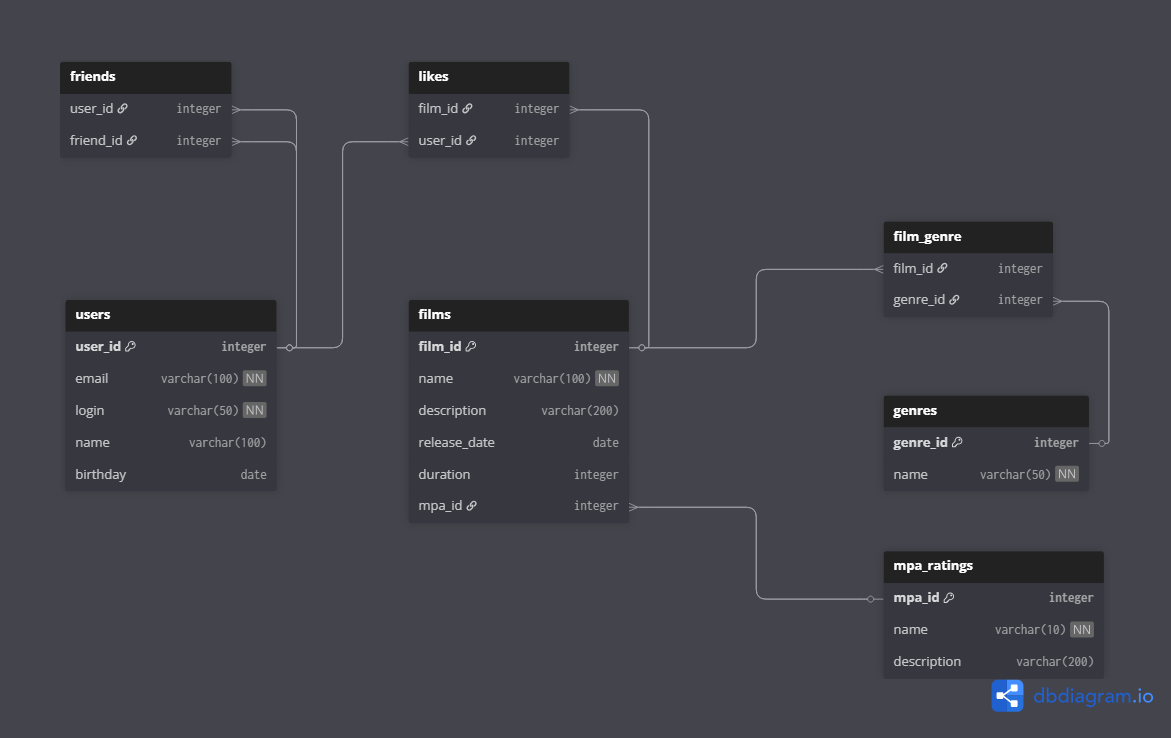
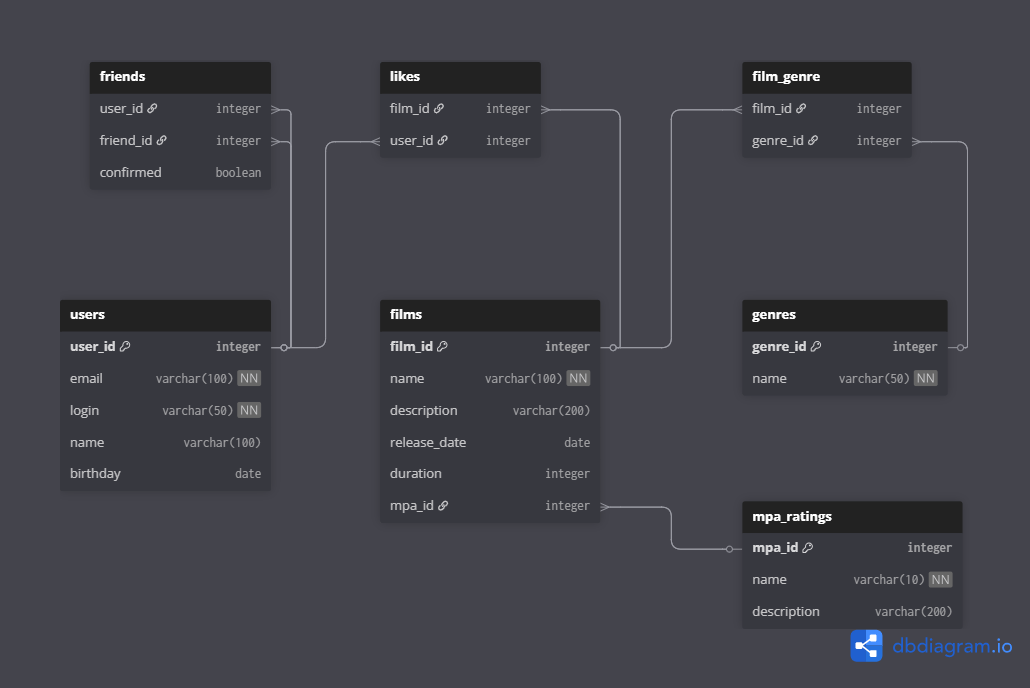
feat: update UserService and FilmService

diff --git a/src/main/java/ru/yandex/practicum/filmorate/service/UserService.java b/src/main/java/ru/yandex/practicum/filmorate/service/UserService.java
@@ -4,110 +4,53 @@ import lombok.RequiredArgsConstructor;
 import lombok.extern.slf4j.Slf4j;
 import org.springframework.stereotype.Service;
 import ru.yandex.practicum.filmorate.exception.NotFoundException;
+import ru.yandex.practicum.filmorate.exception.ValidationException;
 import ru.yandex.practicum.filmorate.model.User;
-import ru.yandex.practicum.filmorate.storage.UserStorage;
+import ru.yandex.practicum.filmorate.storage.user.UserRepository;
 
 import java.util.Collection;
-import java.util.Map;
-import java.util.Objects;
-import java.util.Set;
-import java.util.stream.Collectors;
 
 @Slf4j
 @Service
 @RequiredArgsConstructor
 public class UserService {
-    private final UserStorage userStorage;
-    private final FriendService friendService;
-
-    public void addFriend(Long userId, Long friendId) {
-        User user = userStorage.getUserById(userId).orElseThrow(() ->
-                new NotFoundException("Пользователь не найден."));
-        User friend = userStorage.getUserById(friendId).orElseThrow(() ->
-                new NotFoundException("Пользователь не найден."));
-        friendService.addFriend(user_id, friend_id);
-    }
-
-    public void removeFriend(Long userId, Long friendId) {
-        User user = userStorage.getUserById(userId);
-        if (user == null) {
-            throw new NotFoundException("Пользователь не найден.");
-        }
-        User friend = userStorage.getUserById(friendId);
-        if (friend == null) {
-            throw new NotFoundException("Пользователь не найден.");
-        }
-        user.getFriends().remove(friendId);
-        friend.getFriends().remove(userId);
-    }
-
-    public Collection<User> getFriends(Long userId) {
-        User user = userStorage.getUserById(userId);
-        if (user == null) {
-            throw new NotFoundException("Пользователь не найден.");
-        }
-        return user.getFriends()
-                .entrySet()
-                .stream()
-                .filter(e -> e.getValue() == FriendshipStatus.CONFIRMED)
-                .map(e -> userStorage.getUserById(e.getKey()))
-                .filter(Objects::nonNull)
-                .collect(Collectors.toList());
-    }
-
-    public Collection<User> getCommonFriends(Long userId1, Long userId2) {
-        User user1 = userStorage.getUserById(userId1);
-        if (user1 == null) {
-            throw new NotFoundException("Пользователь не найден.");
-        }
-        User user2 = userStorage.getUserById(userId2);
-        if (user2 == null) {
-            throw new NotFoundException("Пользователь не найден.");
-        }
-
-        Set<Long> commonIds = user1.getFriends()
-                .entrySet()
-                .stream()
-                .filter(e -> e.getValue() == FriendshipStatus.CONFIRMED)
-                .map(Map.Entry::getKey)
-                .filter(id -> user2.getFriends().containsKey(id) &&
-                user2.getFriends().get(id) == FriendshipStatus.CONFIRMED)
-                .collect(Collectors.toSet());
-
-        return commonIds.stream()
-                .map(userStorage::getUserById)
-                .filter(Objects::nonNull)
-                .collect(Collectors.toList());
-    }
-
-    public void confirmFriendship(Long userId, Long friendId) {
-        User user = userStorage.getUserById(userId);
-        if (user == null) {
-            throw new NotFoundException("Пользователь не найден.");
-        }
-        User friend = userStorage.getUserById(friendId);
-        if (friend == null) {
-            throw new NotFoundException("Пользователь не найден.");
-        }
-        if (user.getFriends().containsKey(friendId)) {
-            user.getFriends().put(friendId, FriendshipStatus.CONFIRMED);
-            friend.getFriends().put(userId, FriendshipStatus.CONFIRMED);
-        }
-    }
+    private final UserRepository userRepository;
 
     public Collection<User> findAllUsers() {
-        return userStorage.findAllUsers();
+        log.debug("Попытка получения списка всех пользователей.");
+        return userRepository.findAllUsers();
     }
 
-    public User getUserById(Long id) {
-        return userStorage.getUserById(id).orElseThrow(() -> new NotFoundException("Пользователь не найден."));
+    public User getUserById(Long userId) {
+        log.debug("Попытка получения пользователя по ID: {}", userId);
+        if (userId == null) {
+            throw new ValidationException("ID пользователя не может быть null.");
+        }
+        return userRepository.getUserById(userId)
+                .orElseThrow(() -> new NotFoundException("Пользователь с ID " + userId + " не найден."));
     }
 
     public User createUser(User user) {
-        return userStorage.createUser(user);
+        log.debug("Попытка создания нового пользователя: email={}, login={}", user.getEmail(), user.getLogin());
+        if (user.getName() == null || user.getName().isBlank()) {
+            user.setName(user.getLogin());
+        }
+        User createdUser = userRepository.createUser(user);
+        log.info("Создан пользователь с ID: {}", createdUser.getId());
+        return createdUser;
     }
 
     public User updateUser(User newUser) {
-        return userStorage.updateUser(newUser);
+        log.debug("Попытка обновления пользователя с ID: {}", newUser.getId());
+        if (newUser.getId() == null) {
+            throw new ValidationException("ID пользователя не может быть null.");
+        }
+        getUserById(newUser.getId());
+        if (newUser.getName() == null || newUser.getName().isBlank()) {
+            newUser.setName(newUser.getLogin());
+        }
+        User updatedUser = userRepository.updateUser(newUser);
+        log.info("Пользователь с ID {} обновлен", newUser.getId());
+        return updatedUser;
     }
 }

diff --git a/src/main/java/ru/yandex/practicum/filmorate/storage/friend/JdbcFriendRepository.java b/src/main/java/ru/yandex/practicum/filmorate/storage/friend/JdbcFriendRepository.java
@@ -1,0 +1,99 @@
+package ru.yandex.practicum.filmorate.storage.friend;
+
+import lombok.RequiredArgsConstructor;
+import org.springframework.beans.factory.annotation.Qualifier;
+import org.springframework.jdbc.core.JdbcTemplate;
+import org.springframework.stereotype.Repository;
+import ru.yandex.practicum.filmorate.mappers.UserRowMapper;
+import ru.yandex.practicum.filmorate.model.User;
+
+import java.util.List;
+
+@Repository
+@Qualifier("friendRepository")
+@RequiredArgsConstructor
+public class JdbcFriendRepository implements FriendRepository {
+
+    private final JdbcTemplate jdbc;
+    private final UserRowMapper userRowMapper;
+
+    private static final String ADD_FRIEND_QUERY = """
+            INSERT INTO friends (user_id, friend_id, confirmed)
+            VALUES (?, ?, FALSE)
+            """;
+
+    private static final String CONFIRM_FRIENDSHIP_QUERY = """
+            UPDATE friends
+            SET confirmed = TRUE
+            WHERE user_id = ? AND friend_id = ?
+            """;
+
+    private static final String REMOVE_FRIEND_QUERY = """
+            DELETE FROM friends
+            WHERE (user_id = ? AND friend_id = ?)
+               OR (user_id = ? AND friend_id = ?)
+            """;
+
+    private static final String GET_FRIENDS_QUERY = """
+            SELECT u.user_id, u.email, u.login, u.name, u.birthday
+            FROM users u
+            JOIN friends f ON u.user_id = f.friend_id
+            WHERE f.user_id = ? AND f.confirmed = TRUE
+            """;
+
+    private static final String GET_COMMON_FRIENDS_QUERY = """
+            SELECT u.user_id, u.email, u.login, u.name, u.birthday
+            FROM users u
+            WHERE u.user_id IN (
+                SELECT f1.friend_id
+                FROM friends f1
+                JOIN friends f2 ON f1.friend_id = f2.friend_id
+                WHERE f1.user_id = ? AND f2.user_id = ?
+                  AND f1.confirmed = TRUE AND f2.confirmed = TRUE)
+            """;
+
+    private static final String CHECK_FRIENDSHIP_QUERY = """
+            SELECT COUNT(*) > 0 AS has_friendship
+            FROM friends
+            WHERE user_id = ? AND friend_id = ? AND confirmed = TRUE
+            """;
+
+    private static final String CHECK_FRIEND_REQUEST_QUERY = """
+            SELECT COUNT(*) > 0 AS has_request
+            FROM friends
+            WHERE user_id = ? AND friend_id = ? AND confirmed = FALSE
+            """;
+    @Override
+    public void addFriend(Long userId, Long friendId) {
+        Boolean hasReverseRequest = jdbc.queryForObject(
+                CHECK_FRIEND_REQUEST_QUERY, Boolean.class, friendId, userId);
+
+        if (hasReverseRequest != null && hasReverseRequest) {
+            jdbc.update(CONFIRM_FRIENDSHIP_QUERY, userId, friendId);
+            jdbc.update(CONFIRM_FRIENDSHIP_QUERY, friendId, userId);
+        } else {
+            jdbc.update(ADD_FRIEND_QUERY, userId, friendId);
+        }
+    }
+
+    @Override
+    public void removeFriend(Long userId, Long friendId) {
+        jdbc.update(REMOVE_FRIEND_QUERY, userId, friendId, friendId, userId);
+    }
+
+    @Override
+    public List<User> getFriends(Long userId) {
+        return jdbc.query(GET_FRIENDS_QUERY, userRowMapper, userId);
+    }
+
+    @Override
+    public List<User> getCommonFriends(Long userId1, Long userId2) {
+        return jdbc.query(GET_COMMON_FRIENDS_QUERY, userRowMapper, userId1, userId2);
+    }
+
+    @Override
+    public boolean hasFriendship(Long userId, Long friendId) {
+        Boolean result = jdbc.queryForObject(CHECK_FRIENDSHIP_QUERY, Boolean.class, userId,friendId);
+        return result != null ? result : false;
+    }
+}

diff --git a/src/main/java/ru/yandex/practicum/filmorate/service/FriendService.java b/src/main/java/ru/yandex/practicum/filmorate/service/FriendService.java
@@ -1,10 +1,65 @@
 package ru.yandex.practicum.filmorate.service;
 
 import lombok.RequiredArgsConstructor;
+import lombok.extern.slf4j.Slf4j;
 import org.springframework.stereotype.Service;
+import ru.yandex.practicum.filmorate.exception.NotFoundException;
+import ru.yandex.practicum.filmorate.exception.ValidationException;
+import ru.yandex.practicum.filmorate.model.User;
+import ru.yandex.practicum.filmorate.storage.friend.FriendRepository;
+import ru.yandex.practicum.filmorate.storage.user.UserRepository;
 
+import java.util.Collection;
+
+@Slf4j
 @Service
 @RequiredArgsConstructor
 public class FriendService {
-    private final FriendStorage friendStorage;
+    private final FriendRepository friendRepository;
+    private final UserRepository userRepository;
+
+    public void addFriend(Long userId, Long friendId) {
+        log.debug("Попытка добавления друзья: пользователь {} добавляет {}", userId, friendId);
+        validateUserExist(userId, friendId);
+        if (userId.equals(friendId)) {
+            throw new ValidationException("Пользователь не может добавить себя в друзья.");
+        }
+        friendRepository.addFriend(userId, friendId);
+        log.info("Пользователь {} отправил запрос на дружбу пользователю {}", userId, friendId);
+    }
+
+    public void removeFriend(Long userId, Long friendId) {
+        log.debug("Пользователь {} удалил пользователя {} из друзей", userId, friendId);
+        validateUserExist(userId, friendId);
+        friendRepository.removeFriend(userId, friendId);
+        log.info("Пользователь {} удалил пользователя {} из друзей", userId, friendId);
+    }
+
+    public Collection<User> getFriends(Long userId) {
+        log.debug("Попытка получения списка друзей для пользователя {}", userId);
+        if (userId == null) {
+            throw new ValidationException("ID пользователя не может быть null");
+        }
+        getUserById(userId);
+        return friendRepository.getFriends(userId);
+    }
+
+    public Collection<User> getCommonFriends(Long userId1, Long userId2) {
+        log.debug("Получение общих друзей пользователей {} и {}", userId1, userId2);
+        validateUserExist(userId1, userId2);
+        return friendRepository.getCommonFriends(userId1, userId2);
+    }
+
+    private void validateUserExist(Long userId, Long friendId) {
+        if (userId == null || friendId == null) {
+            throw new ValidationException("ID пользователей не могут быть null.");
+        }
+        getUserById(userId);
+        getUserById(friendId);
+    }
+
+    private User getUserById(Long userId) {
+        return userRepository.getUserById(userId)
+                .orElseThrow(() -> new NotFoundException("Пользователь с таким ID " + userId + " не найден."));
+    }
 }

diff --git a/src/main/java/ru/yandex/practicum/filmorate/storage/user/JdbcUserRepository.java b/src/main/java/ru/yandex/practicum/filmorate/storage/user/JdbcUserRepository.java
@@ -1,4 +1,4 @@
-package ru.yandex.practicum.filmorate.storage;
+package ru.yandex.practicum.filmorate.storage.user;
 
 import org.springframework.beans.factory.annotation.Qualifier;
 import org.springframework.jdbc.core.JdbcTemplate;
@@ -12,7 +12,7 @@ import java.util.Optional;
 
 @Repository
 @Qualifier("userDbStorage")
-public class UserDbStorage extends BaseRepository<User> implements UserStorage {
+public class JdbcUserRepository extends BaseRepository<User> implements UserRepository {
     private static final String FIND_ALL_USERS_QUERY = "SELECT * FROM users ORDER BY user_id";
     private static final String FIND_USER_BY_ID_QUERY = "SELECT * FROM users WHERE user_id = ?";
     private static final String INSERT_USERS_QUERY = "INSERT INTO users (email, login, name, birthday)" +
@@ -21,7 +21,7 @@ public class UserDbStorage extends BaseRepository<User> implements UserStorage {
             "birthday = ? WHERE user_id = ?";
     private static final String DELETE_USER_QUERY = "DELETE FROM users WHERE user_id = ?";
 
-    public UserDbStorage(JdbcTemplate jdbc, RowMapper<User> mapper) {
+    public JdbcUserRepository(JdbcTemplate jdbc, RowMapper<User> mapper) {
         super(jdbc, mapper);
     }
 

diff --git a/src/main/java/ru/yandex/practicum/filmorate/service/FilmService.java b/src/main/java/ru/yandex/practicum/filmorate/service/FilmService.java
@@ -7,7 +7,7 @@ import ru.yandex.practicum.filmorate.exception.NotFoundException;
 import ru.yandex.practicum.filmorate.model.Film;
 import ru.yandex.practicum.filmorate.model.User;
 import ru.yandex.practicum.filmorate.storage.FilmStorage;
-import ru.yandex.practicum.filmorate.storage.UserStorage;
+import ru.yandex.practicum.filmorate.storage.user.UserRepository;
 
 import java.util.Collection;
 
@@ -16,7 +16,7 @@ import java.util.Collection;
 @RequiredArgsConstructor
 public class FilmService {
     private final FilmStorage filmStorage;
-    private final UserStorage userStorage;
+    private final UserRepository userStorage;
 
     public void addLike(Long filmId, Long userId) {
         Film film = filmStorage.getFilmById(filmId);

diff --git a/src/main/java/ru/yandex/practicum/filmorate/storage/friend/FriendRepository.java b/src/main/java/ru/yandex/practicum/filmorate/storage/friend/FriendRepository.java
@@ -1,10 +1,10 @@
-package ru.yandex.practicum.filmorate.storage;
+package ru.yandex.practicum.filmorate.storage.friend;
 
 import ru.yandex.practicum.filmorate.model.User;
 
 import java.util.List;
 
-public interface FriendStorage {
+public interface FriendRepository {
     void addFriend(Long userId, Long friendId);
     void removeFriend(Long userId, Long friendId);
     List<User> getFriends(Long userId);

diff --git a/src/main/java/ru/yandex/practicum/filmorate/storage/user/UserRepository.java b/src/main/java/ru/yandex/practicum/filmorate/storage/user/UserRepository.java
@@ -1,11 +1,11 @@
-package ru.yandex.practicum.filmorate.storage;
+package ru.yandex.practicum.filmorate.storage.user;
 
 import ru.yandex.practicum.filmorate.model.User;
 
 import java.util.Collection;
 import java.util.Optional;
 
-public interface UserStorage {
+public interface UserRepository {
     Collection<User> findAllUsers();
 
     User createUser(User user);
